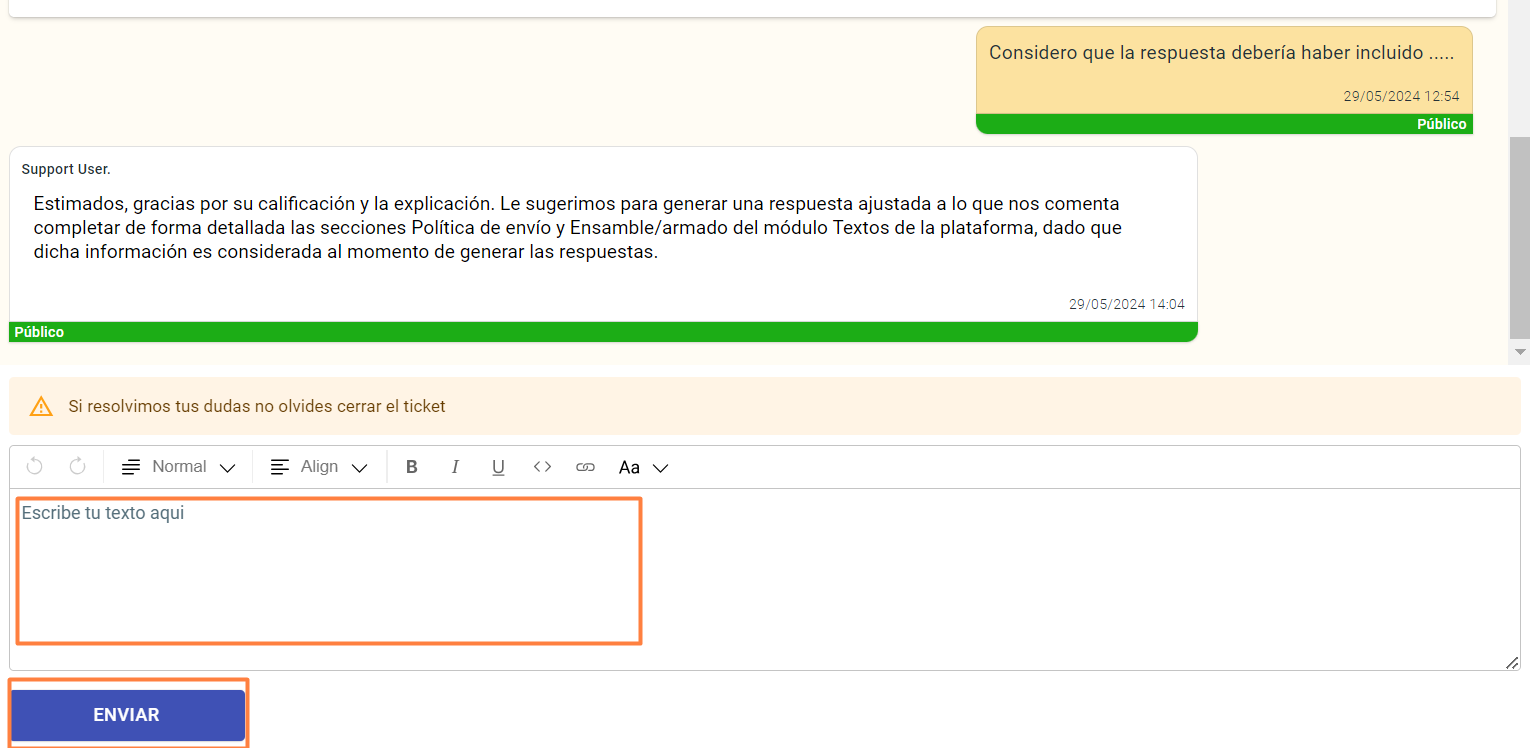
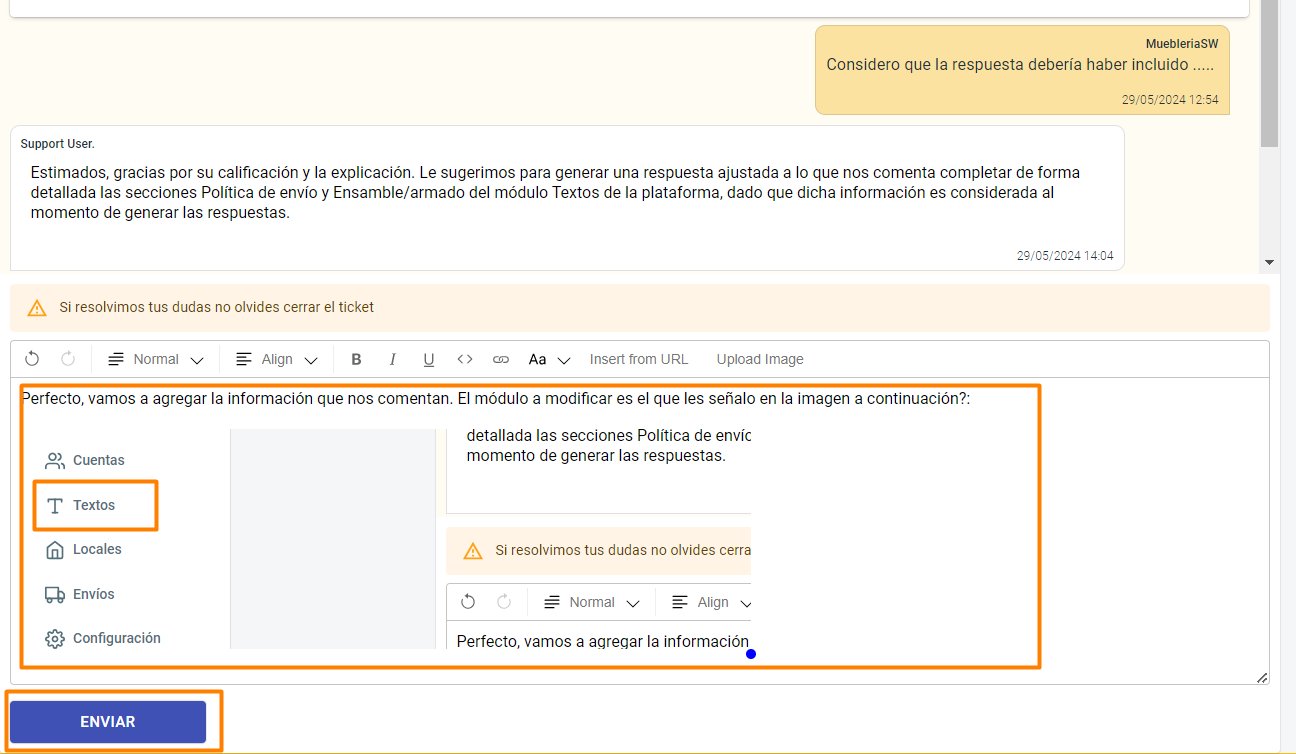
7 10 8

diff --git a/content/docs/Herramientas_comunicacion/Tickets.md b/content/docs/Herramientas_comunicacion/Tickets.md
@@ -10,8 +10,7 @@ draft: false
 toc: true
 ---
 El ticket es uno de los modos de comunicación que existe entre Botmeni y sus usuarios. Los mismos pueden crearse independientes de una pregunta, para comunicarnos una duda, consulta o comentario. O pueden surgir asociados a una calificación de una respuesta generada como Mejorable o Incorrecta, y que por lo tanto requiere de nuestra evalución para aplicar las mejoras que correspondan.<br></br>
-El módulo tickets está disponible para aquellos usuarios que tengan asociados los roles Gestionar Tickets o Administrador.
-Para conocer la cantidad de tickets disponibles según el plan al que está adherida tu tienda, puedes [visualizar los detalles de tu suscripción activa](../../Suscripcíon_y_Pagos/Tu_Suscripcion/Ver_detalles_suscripción_actual.md).<br></br>
+El módulo tickets está disponible para aquellos usuarios que tengan asociados los roles Gestionar Tickets o Administrador.<br></br>
 Consulta la sección [Ayuda](../../Ayuda.md) para conocer nuestras otras vías de contacto.
 
 ### Visualizar los Tickets 
@@ -37,33 +36,32 @@ Para crear un nuevo ticket genérico no asociado a una pregunta, una vez que est
 3. Califica tu consulta seleccionando el círculo amarillo o rojo según lo consideres.
 {{< figure width="700px" height="500px" src="/images/general/tik8.png" >}}
 4. Presiona CREAR TICKET
-{{< figure width="700px" height="500px" src="/images/general/tik9.png" >}}
-
+{{< figure width="700px" height="500px" src="/images/general/tik9.png" >}}<br></br>
+Para conocer los planes que tienen habilitada la creación de tickets y la cantidad de tickets disponibles según el plan al que está adherida tu tienda, sigue los pasos detallados en la sección [Funcionalidades y beneficios incluidos según el plan](../../Suscripcíon_y_Pagos/Tu_Suscripcion/Conocer_beneficios_planes.md) .<br></br>
 ### Crear un ticket al calificar una respuesta
-Al calificar una respuesta generada por la plataforma como Respuesta Mejorable (amarillo) o Respuesta Incorrecta (rojo), se guarda la calificación y además, si aún tienes tickets disponibles, se genera un ticket asociada a esa pregunta. Para crear un ticket asociado a una pregunta:
+Al calificar una respuesta generada por la plataforma como Respuesta Mejorable (amarillo) o Respuesta Incorrecta (rojo), se guarda la calificación y además, si el plan adherido tiene la funcionalidad habilitada y aún tienes tickets disponibles, se genera un ticket asociada a esa pregunta. Para crear un ticket asociado a una pregunta del Histórico:
 1. Visualiza el módulo Histórico presionando Histórico en el menú.
 {{< figure width="140px" height="100px" src="/images/general/historico.png" >}}
 2. Ingresa en el casillero Calificar respuesta el comentario que desees hacernos llegar para tener en cuenta respecto a la respuesta que generó la plataforma.
-{{< figure width="700px" height="500px" src="/images/general/tik10.png" >}}
+{{< figure width="700px" height="500px" src="/images/general/historico13.png" >}}
 3. Califica la respuesta según consideres que es mejorable (amarillo) o incorrecta (rojo).
-{{< figure width="700px" height="500px" src="/images/general/tik11.png" >}}
+{{< figure width="700px" height="500px" src="/images/general/historico14.png" >}}
 4. En la pregunta que fue calificada encontrarás la leyenda Ver ticket. 
-{{< figure width="700px" height="500px" src="/images/general/tik12.png" >}}
+{{< figure width="700px" height="500px" src="/images/general/tik19.png" >}}
 5. Al presionar Ver ticket, Botmeni te dirigirá al módulo Tickets y en la pantalla podrás observar el ticket completo con todo sus detalles.
-{{< figure width="700px" height="500px" src="/images/general/tik13.png" >}}
+{{< figure width="700px" height="500px" src="/images/general/tik20.png" >}}
 
-También puedes generar un ticket a partir de la cailifación de las preguntas del módulo Test, siguiendo los mismos pasos recién detallados.
+También puedes generar un ticket a partir de la calificación de las preguntas del módulo Test y Pendientes.
 
 ### Gestionar un ticket
 Desde el módulo ticket podrás gestionar los tickets asociados a tu tienda.
 Para visualizar o tomar acción sobre un ticket, luego de ingresar al módulo Tickets:
-1. Presiona el ticket en el listado que deseas gestionar o visualizar. Los tickets con las letras resaltadas en negro, son aquellos que aún no has leídos. 
+1. Presiona el ticket en el listado que deseas gestionar o visualizar. Los tickets con las letras resaltadas en negro, son aquellos que aún tienen mensajes sin leer. 
 {{< figure width="700px" height="500px" src="/images/general/tik14.png" >}}
-2. Cuando un ticket haya sido contestado o gestionado por nuestro equipo, te llegará una notificación que puedes visualizar en la sección notificaciones de la plataforma.
-{{< figure width="700px" height="500px" src="/images/general/tik15.png" >}}
-3. Al presionar sobre cualquiera de los tickets del listado, se abrirá una pantalla con el detalle completo del mismo, mostrando en primer lugar la pregunta cuya calificación lo generó, si ese fuera el caso, o el comentario que enviaste al crear el ticket para los tickets genéricos no asociados a una pregunta.
+Cuando un ticket haya sido contestado o gestionado por nuestro equipo, te llegará una notificación que puedes visualizar en la sección notificaciones de la plataforma.
+3. Al presionar sobre cualquiera de los tickets del listado, se abrirá una pantalla con el detalle completo del mismo, mostrando en primer lugar la pregunta cuya calificación lo generó, si ese fuera el caso, o el primer comentario que se ingresó al crear el ticket (para los tickets genéricos no asociados a una pregunta).
 {{< figure width="700px" height="500px" src="/images/general/tik18.png" >}}
-4. Si consideras que tu sugerencia o consulta ya fue resuelta puedes presionar el botón CERRAR TICKET. El mismo pasará a estado cerrado. Puedes seguir visualizándolo desde el listado e, incluso, volver a abrirlo para continuarlo en caso de que lo consideres necesario.
+4. Si considerás que tu sugerencia o consulta ya fue resuelta puedes presionar el botón CERRAR TICKET. El mismo pasará a estado cerrado. Puedes seguir visualizándolo desde el listado e, incluso, volver a abrirlo para continuarlo en caso de que lo consideres necesario.
 {{< figure width="700px" height="500px" src="/images/general/tik16.png" >}}
-5. También tienes disponible la casilla para continuar la comunicación. Para ello ingresa el nuevo mensaje y luego presiona ENVIAR.
+5. También tienes disponible la casilla para continuar la comunicación. Para ello ingresa el nuevo mensaje (el cual puede incluir imágenes y links en caso que lo consideres necesario) y luego presiona ENVIAR.
 {{< figure width="700px" height="500px" src="/images/general/tik17.png" >}}

diff --git a/content/docs/Preguntas_de_Mercado_libre/pendientes/pendientes.md b/content/docs/Preguntas_de_Mercado_libre/pendientes/pendientes.md
@@ -66,8 +66,8 @@ Para calificar una respuesta de una pregunta pendiente, una vez que estás visua
 2. Ingresa el comentario o sugerencia que quieras comunicarnos. Esto no es obligatorio en caso de que tu calificación sea Respuesta excelente (círculo verde).
 {{< figure width="840px" height="600px" src="/images/general/pendientes18.png" >}}
 3. Selecciona el círculo verde, amarillo o rojo en función de cómo deseas calificar la respuesta generada: Respuesta excelente, Mejorable o Incorrecta.
-{{< figure width="840px" height="600px" src="/images/general/pendientes19.png" >}}
-
+{{< figure width="840px" height="600px" src="/images/general/pendientes19.png" >}}<br></br>
+La calificación de las respuestas nos permite incorporar las mejoras o modificaciones necesarias. Además, al calificar una respuesta como mejorable o incorrecta se genera un ticket, para aquellos planes que lo tienen como funcionalidad disponible y siempre que no se haya alcanzado el límite mensual. Puedes ingresar a la sección [Herramientas de Comunicación - Tickets*](../../Herramientas_comunicacion/Tickets.md) para conocer más acerca del funcionamiento de los Tickets en nuestra plataforma.
 ### Eliminar una pregunta.
 Para Eliminar una pregunta pendiente, una vez que estás visualizando el listado de Preguntas Pendientes:
 1. Presiona la acción Eliminar, ubicada en la esquina superior derecha de la pregunta.

diff --git a/content/docs/Preguntas_de_Mercado_libre/Historico/historico.md b/content/docs/Preguntas_de_Mercado_libre/Historico/historico.md
@@ -63,7 +63,8 @@ Para calificar una respuesta, una vez que estás visualizando el listado de Preg
 1. Ingresa el comentario o sugerencia que quieras comunicarnos en el campo Calificar respuesta. Esto no es obligatorio en caso de que tu calificación sea Respuesta excelente (círculo verde).
 {{< figure width="840px" height="600px" src="/images/general/historico13.png" >}}
 2. Selecciona el círculo verde, amarillo o rojo en función de cómo deseas calificar la respuesta generada: Respuesta excelente, Mejorable o Incorrecta.
-{{< figure width="840px" height="600px" src="/images/general/historico14.png" >}}
+{{< figure width="840px" height="600px" src="/images/general/historico14.png" >}}<br></br>
+La calificación de las respuestas nos permite incorporar las mejoras o modificaciones necesarias. Además, al calificar una respuesta como mejorable o incorrecta se genera un ticket, para aquellos planes que lo tienen como funcionalidad disponible y siempre que no se haya alcanzado el límite mensual. Puedes ingresar a la sección [Herramientas de Comunicación - Tickets](../../Herramientas_comunicacion/Tickets.md) para conocer más acerca del funcionamiento de los Tickets en nuestra plataforma.<br></br>
 
 ### Descargar Listado de preguntas.
 
